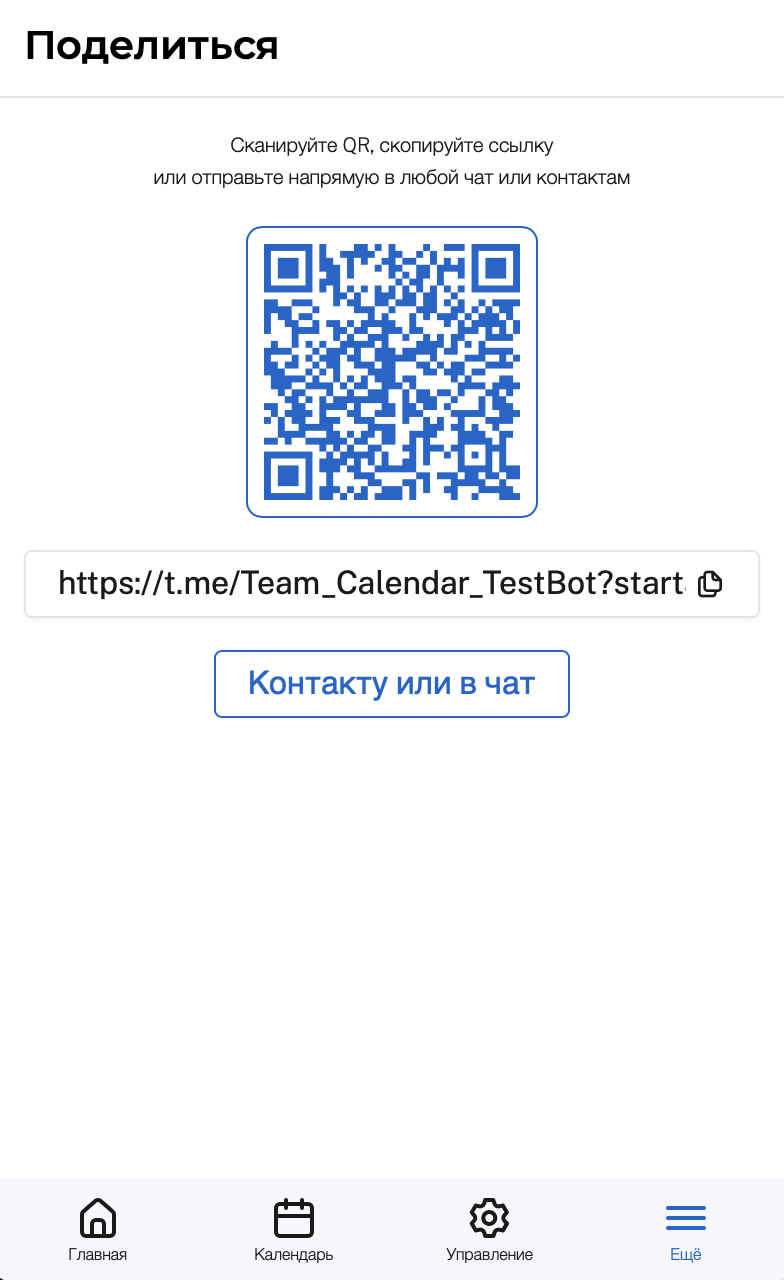
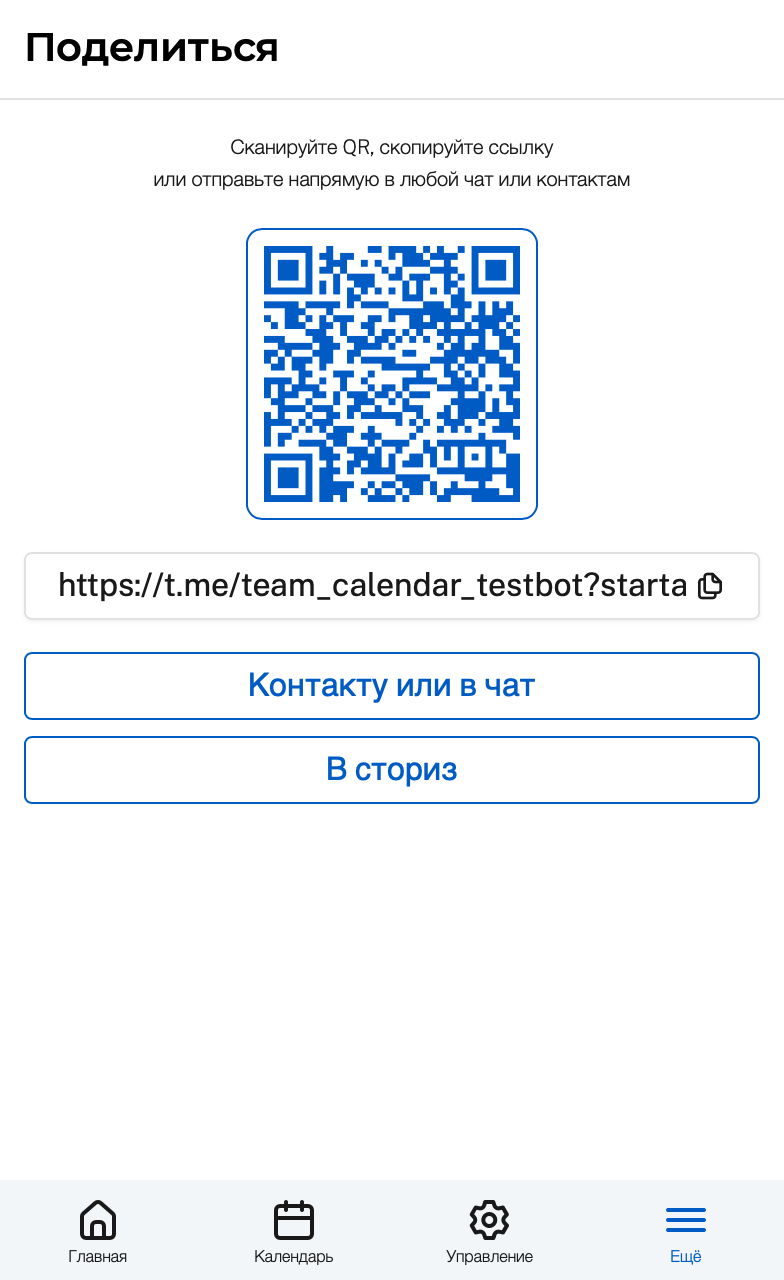
GITBOOK-22: No subject

diff --git a/menu/features/more/share.md b/menu/features/more/share.md
@@ -16,6 +16,9 @@ icon: share
 * 📷 QR-код — можно показать с экрана, распечатать или вставить в рекламные материалы.
 * 🔗 Прямая ссылка — отображается под QR-кодом. Доступна для копирования одним нажатием.
 * ✉ Кнопка “Контакту или в чат” — мгновенная отправка ссылки в любой Telegram-чат или диалог прямо из мини-приложения.
+*   📣 Кнопка “В сториз”
+
+    Позволяет поделиться календарём напрямую в Telegram Stories (доступно с Telegram Premium) на плане Standard. Это быстрый способ рассказать подписчикам о приёме, занятии или временном окне для записи.
 
 ### Примечания
 

diff --git a/README.md b/README.md
@@ -1,20 +1,6 @@
 ---
 cover: .gitbook/assets/docs_ welcome.jpg
 coverY: 0
-layout:
-  cover:
-    visible: true
-    size: full
-  title:
-    visible: true
-  description:
-    visible: false
-  tableOfContents:
-    visible: true
-  outline:
-    visible: true
-  pagination:
-    visible: true
 ---
 
 # О продукте
